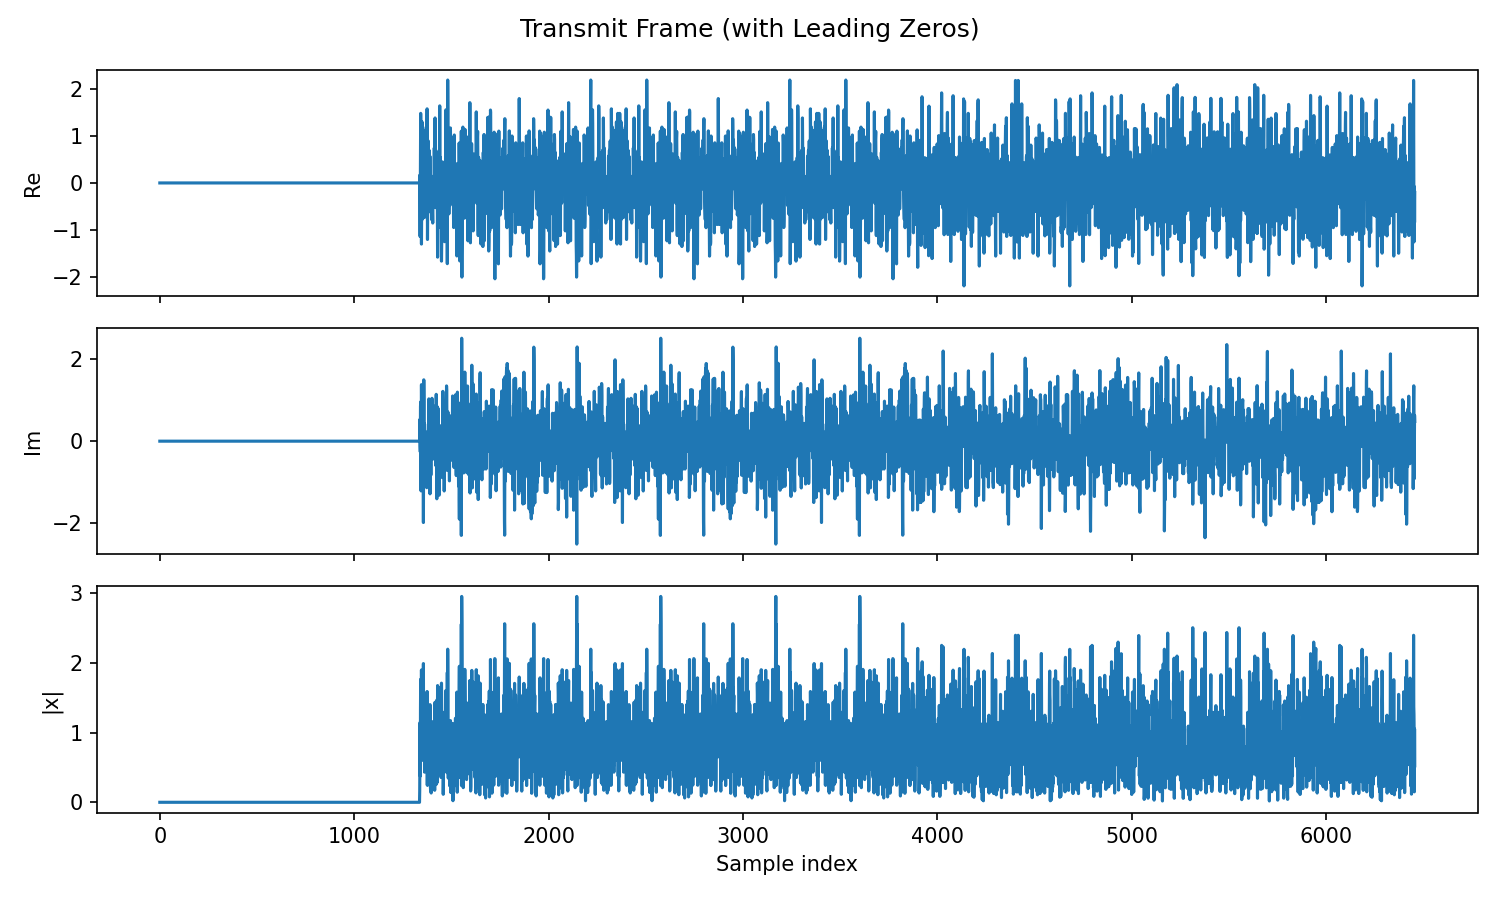
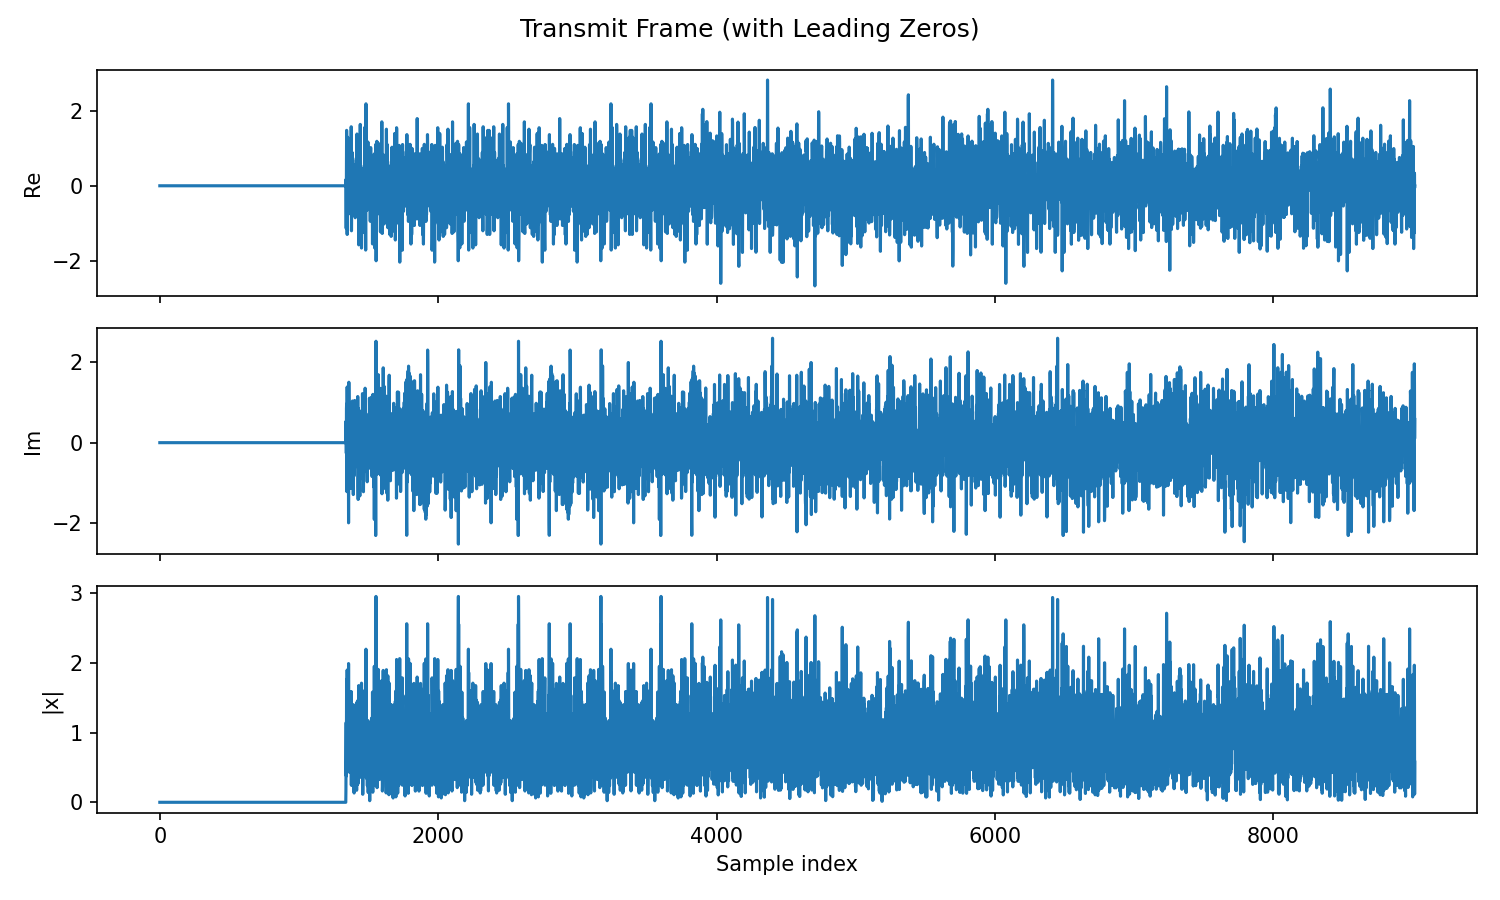
works well for both

diff --git a/core.py b/core.py
@@ -137,3 +137,144 @@ def apply_cfo(samples: np.ndarray, cfo_hz: float, fs_hz: float) -> np.ndarray:
     n = np.arange(L, dtype=float)
     tone = np.exp(1j * 2 * np.pi * cfo_hz * n / fs_hz)
     return x * tone[np.newaxis, :]
+
+
+# -----------------------------
+# Extra OFDM helpers for pilots
+# -----------------------------
+
+def _qpsk_values(rng: np.random.Generator, size: int) -> np.ndarray:
+    m = rng.integers(0, 4, size=size)
+    re = (m & 1) * 2 - 1  # 0->-1, 1->+1 for LSB
+    im = ((m >> 1) & 1) * 2 - 1
+    vals = (re + 1j * im) / np.sqrt(2.0)
+    return vals.astype(np.complex128)
+
+
+def build_random_qpsk_symbol(
+    rng: np.random.Generator, include_cp: bool = True
+) -> tuple[np.ndarray, np.ndarray]:
+    """Return (time_domain_symbol, used_subcarrier_values) for a full-band QPSK OFDM symbol.
+
+    - Active subcarriers are the centered set of width NUM_ACTIVE_SUBCARRIERS (DC skipped).
+    - QPSK constellation with unit average power on used tones.
+    - Time-domain symbol is unit-power normalized.
+    """
+    indices = centered_subcarrier_indices(NUM_ACTIVE_SUBCARRIERS)
+    qpsk_vals = _qpsk_values(rng, indices.shape[0])
+    spectrum = allocate_subcarriers(N_FFT, indices, qpsk_vals)
+    symbol = spectrum_to_time_domain(spectrum)
+    if include_cp:
+        symbol = add_cyclic_prefix(symbol, CYCLIC_PREFIX)
+    return symbol, qpsk_vals
+
+
+def ofdm_fft_used(symbol_time_no_cp: np.ndarray) -> np.ndarray:
+    """FFT an OFDM symbol (no CP) and return only used, centered subcarriers."""
+    spectrum_full = np.fft.fftshift(np.fft.fft(symbol_time_no_cp, n=N_FFT))
+    dc = N_FFT // 2
+    idx = centered_subcarrier_indices(NUM_ACTIVE_SUBCARRIERS)
+    return spectrum_full[(dc + idx) % N_FFT]
+
+
+def estimate_cfo_from_cp(
+    rx: np.ndarray, start: int, n_fft: int, cp_len: int, fs_hz: float
+) -> float:
+    """Estimate CFO (Hz) from CP correlation on a symbol whose CP starts at `start`.
+
+    Uses P = sum r[start+n] r*[start+n+N] over CP length.
+    Supports 1D (single branch) or 2D (branches x time) arrays by summing across branches.
+    """
+    x = np.asarray(rx)
+    if x.ndim == 1:
+        x = x[np.newaxis, :]
+    a = x[:, start : start + cp_len]
+    b = x[:, start + n_fft : start + n_fft + cp_len]
+    P = np.sum(a * np.conj(b))
+    angle = np.angle(P)
+    # angle(P) ≈ -2π * f_cfo * N / Fs  => f_cfo ≈ -angle * Fs / (2π N)
+    cfo_hz = -angle * fs_hz / (2 * np.pi * n_fft)
+    return float(cfo_hz)
+
+
+def find_cp_start_via_corr(
+    rx: np.ndarray,
+    est_start: int,
+    n_fft: int,
+    cp_len: int,
+    search_half: int = 1024,
+) -> int:
+    """Refine CP start using the magnitude of CP correlation |P(d)|.
+
+    Searches over d in [est_start - search_half, est_start + search_half] and
+    returns the d that maximizes |sum r[d+n] r*[d+n+n_fft]|.
+    """
+    x = np.asarray(rx)
+    if x.ndim == 1:
+        x = x[np.newaxis, :]
+    L = x.shape[1]
+    lo = max(0, est_start - search_half)
+    hi = min(L - (n_fft + cp_len), est_start + search_half)
+    if hi <= lo:
+        return est_start
+    best_d = lo
+    best_val = -1.0
+    for d in range(lo, hi):
+        a = x[:, d : d + cp_len]
+        b = x[:, d + n_fft : d + n_fft + cp_len]
+        P = np.sum(a * np.conj(b))
+        val = float(np.abs(P))
+        if val > best_val:
+            best_val = val
+            best_d = d
+    return best_d
+
+
+def ls_channel_estimate(y_used: np.ndarray, x_used: np.ndarray, eps: float = 1e-9) -> np.ndarray:
+    """Least-squares per-subcarrier channel estimate H = Y/X with small regularization."""
+    return y_used / (x_used + eps)
+
+
+def equalize(y_used: np.ndarray, h_est: np.ndarray, eps: float = 1e-9) -> np.ndarray:
+    return y_used / (h_est + eps)
+
+
+def remove_common_phase(x: np.ndarray, ref: np.ndarray | None = None) -> tuple[np.ndarray, float]:
+    """De-rotate by common phase error. If `ref` given, align x to ref; else use mean angle of x."""
+    if ref is None:
+        cpe = np.angle(np.mean(x))
+    else:
+        cpe = np.angle(np.vdot(ref, x) / (np.vdot(ref, ref) + 1e-12))
+    return x * np.exp(-1j * cpe), float(cpe)
+
+
+def align_complex_gain(x: np.ndarray, ref: np.ndarray, eps: float = 1e-12) -> tuple[np.ndarray, complex]:
+    """Scale x by complex gain g to best fit ref in LS sense: minimize ||g x - ref||^2."""
+    num = np.vdot(x, ref)
+    den = np.vdot(x, x) + eps
+    g = num / den
+    return x * g, g
+
+
+def evm_rms_db(x: np.ndarray, ref: np.ndarray) -> tuple[float, float]:
+    """Return (evm_rms, evm_db) where EVM is normalized to reference RMS magnitude."""
+    err = x - ref
+    evm_rms = np.sqrt(np.mean(np.abs(err) ** 2) / np.mean(np.abs(ref) ** 2))
+    evm_db = 20 * np.log10(evm_rms + 1e-12)
+    return float(evm_rms), float(evm_db)
+
+
+def plot_constellation(x: np.ndarray, ref: np.ndarray | None, path: Path, title: str) -> None:
+    fig, ax = plt.subplots(figsize=(5, 5))
+    ax.scatter(x.real, x.imag, s=6, alpha=0.6, label="Equalized")
+    if ref is not None:
+        ax.scatter(ref.real, ref.imag, s=36, alpha=0.8, marker="x", label="Ideal")
+    ax.set_xlabel("In-phase")
+    ax.set_ylabel("Quadrature")
+    ax.set_title(title)
+    ax.grid(True, alpha=0.3)
+    ax.set_aspect("equal", adjustable="box")
+    ax.legend(loc="upper right")
+    fig.tight_layout()
+    fig.savefig(path, dpi=150)
+    plt.close(fig)

diff --git a/sc.py b/sc.py
@@ -13,8 +13,15 @@ from core import (
     spectrum_to_time_domain,
     add_cyclic_prefix,
     plot_time_series,
-    build_random_bpsk_symbol,
     compute_channel_peak_offset,
+    build_random_qpsk_symbol,
+    estimate_cfo_from_cp,
+    ofdm_fft_used,
+    ls_channel_estimate,
+    equalize,
+    remove_common_phase,
+    evm_rms_db,
+    plot_constellation,
     SAMPLE_RATE_HZ,
     apply_cfo,
 )
@@ -91,7 +98,7 @@ def find_plateau_end_from_metric(M: np.ndarray, smooth_win: int, n_fft: int) -> 
 
 
 # Detector and channel parameters (script-local)
-SNR_DB = 15.0
+SNR_DB = 35.0
 CFO_HZ = 1000.0
 SC_DELTA = 12  # step back from plateau end to sit inside CP (8–16 suggested)
 SMOOTH_WIN = 32  # samples for smoothing M(d) before slope detection
@@ -103,9 +110,10 @@ TX_PLOT_PATH = PLOTS_DIR / "tx_frame_time.png"
 RX_PLOT_PATH = PLOTS_DIR / "rx_frame_time.png"
 RESULTS_PLOT_PATH = PLOTS_DIR / "start_detection.png"
 CIR_PLOT_PATH = PLOTS_DIR / "channel_cir.png"
+CONST_PLOT_PATH = PLOTS_DIR / "constellation.png"
 
 # Channel profile (set to 'cir1' or 'cir2' to enable measured CIR)
-CHANNEL_PROFILE = "cir1"
+CHANNEL_PROFILE = None
 CHANNEL_RX_INDICES: tuple[int, ...] | None = (0, 1)
 
 
@@ -113,10 +121,11 @@ def run_simulation():
     rng = np.random.default_rng(0)
     PLOTS_DIR.mkdir(parents=True, exist_ok=True)
 
-    # Build S&C preamble + a random data symbol
+    # Build S&C preamble + block pilot (QPSK) + random QPSK data
     sc_preamble = build_sc_preamble(rng, include_cp=True)
-    data_symbol = build_random_bpsk_symbol(rng, include_cp=True)
-    frame = np.concatenate((sc_preamble, data_symbol))
+    pilot_symbol, pilot_used = build_random_qpsk_symbol(rng, include_cp=True)
+    data_symbol, data_used = build_random_qpsk_symbol(rng, include_cp=True)
+    frame = np.concatenate((sc_preamble, pilot_symbol, data_symbol))
     tx_samples = np.concatenate((np.zeros(TX_PRE_PAD_SAMPLES, dtype=complex), frame))
 
     # Optional channel
@@ -209,6 +218,34 @@ def run_simulation():
     plot_time_series(tx_samples, "Transmit Frame (with Leading Zeros)", TX_PLOT_PATH)
     plot_time_series(rx_samples, "Received Frame After Channel", RX_PLOT_PATH)
 
+    # --- CFO estimation from pilot (CP correlation) ---
+    # plateau_end approximates the end of CP and start of N for the preamble
+    preamble_n_start_est = plateau_end
+    pilot_cp_nom = preamble_n_start_est + N_FFT
+    from core import find_cp_start_via_corr
+    pilot_cp_start = find_cp_start_via_corr(
+        rx_samples, pilot_cp_nom, N_FFT, CYCLIC_PREFIX, search_half=2 * CYCLIC_PREFIX
+    )
+    data_cp_start = pilot_cp_start + pilot_symbol.size
+    cfo_est_hz = estimate_cfo_from_cp(rx_samples, pilot_cp_start, N_FFT, CYCLIC_PREFIX, SAMPLE_RATE_HZ)
+    # Compensate CFO across entire stream
+    rx_cfo_corr = apply_cfo(rx_samples, -cfo_est_hz, SAMPLE_RATE_HZ)
+
+    # --- Channel LS estimate from pilot ---
+    rx_eff = rx_cfo_corr if rx_cfo_corr.ndim == 1 else np.mean(rx_cfo_corr, axis=0)
+    pilot_td = rx_eff[pilot_cp_start + CYCLIC_PREFIX : pilot_cp_start + CYCLIC_PREFIX + N_FFT]
+    y_pilot_used = ofdm_fft_used(pilot_td)
+    h_est = ls_channel_estimate(y_pilot_used, pilot_used)
+
+    # --- Equalize data symbol and compute EVM ---
+    data_td = rx_eff[data_cp_start + CYCLIC_PREFIX : data_cp_start + CYCLIC_PREFIX + N_FFT]
+    y_data_used = ofdm_fft_used(data_td)
+    xhat = equalize(y_data_used, h_est)
+    from core import align_complex_gain
+    xhat_aligned, gain = align_complex_gain(xhat, data_used)
+    evm_rms, evm_db = evm_rms_db(xhat_aligned, data_used)
+    plot_constellation(xhat_aligned, data_used, CONST_PLOT_PATH, "Equalized Data Constellation (S&C)")
+
     # Prints
     print(f"Transmit sequence length: {tx_samples.size} samples")
     print(f"Receive branches: {1 if rx_samples.ndim == 1 else rx_samples.shape[0]}")
@@ -228,6 +265,9 @@ def run_simulation():
     if channel_impulse_response is not None:
         print(f"Saved channel CIR plot to {CIR_PLOT_PATH.resolve()}")
     print(f"Applied CFO: {CFO_HZ} Hz at Fs={SAMPLE_RATE_HZ} Hz")
+    print(f"Estimated CFO from CP: {cfo_est_hz:.2f} Hz")
+    print(f"Post-EQ complex gain (mag, angle): {np.abs(gain):.3f}, {np.angle(gain):.3f} rad")
+    print(f"EVM RMS: {100*evm_rms:.2f}%  ({evm_db:.2f} dB)")
 
 
 def main():

diff --git a/zc.py b/zc.py
@@ -12,8 +12,15 @@ from core import (
     spectrum_to_time_domain,
     add_cyclic_prefix,
     plot_time_series,
-    build_random_bpsk_symbol,
+    build_random_qpsk_symbol,
     compute_channel_peak_offset,
+    estimate_cfo_from_cp,
+    ofdm_fft_used,
+    ls_channel_estimate,
+    equalize,
+    remove_common_phase,
+    evm_rms_db,
+    plot_constellation,
     SAMPLE_RATE_HZ,
     apply_cfo,
 )
@@ -39,7 +46,7 @@ def build_pss_symbol(include_cp: bool = True) -> np.ndarray:
 
 
 # Script-local parameters
-SNR_DB = 10.0
+SNR_DB = 35.0
 CFO_HZ = 1000.0
 
 PLOTS_DIR = Path("plots") / "zc"
@@ -48,8 +55,9 @@ TX_PLOT_PATH = PLOTS_DIR / "tx_frame_time.png"
 RX_PLOT_PATH = PLOTS_DIR / "rx_frame_time.png"
 RESULTS_PLOT_PATH = PLOTS_DIR / "start_detection.png"
 CIR_PLOT_PATH = PLOTS_DIR / "channel_cir.png"
+CONST_PLOT_PATH = PLOTS_DIR / "constellation.png"
 
-CHANNEL_PROFILE = "cir1"  # Set to None to bypass measured CIR
+CHANNEL_PROFILE = None # Set to None to bypass measured CIR
 CHANNEL_RX_INDICES: tuple[int, ...] | None = (0, 1)
 
 
@@ -58,8 +66,9 @@ def run_simulation():
     PLOTS_DIR.mkdir(parents=True, exist_ok=True)
 
     pss_waveform = build_pss_symbol(include_cp=True)
-    data_symbol = build_random_bpsk_symbol(rng, include_cp=True)
-    frame = np.concatenate((pss_waveform, data_symbol))
+    pilot_symbol, pilot_used = build_random_qpsk_symbol(rng, include_cp=True)
+    data_symbol, data_used = build_random_qpsk_symbol(rng, include_cp=True)
+    frame = np.concatenate((pss_waveform, pilot_symbol, data_symbol))
     tx_samples = np.concatenate((np.zeros(TX_PRE_PAD_SAMPLES, dtype=complex), frame))
 
     channel_impulse_response = None
@@ -163,6 +172,35 @@ def run_simulation():
     plot_time_series(tx_samples, "Transmit Frame (with Leading Zeros)", TX_PLOT_PATH)
     plot_time_series(rx_samples, "Received Frame After Channel", RX_PLOT_PATH)
 
+    # --- CFO estimation from pilot (CP correlation) ---
+    # detected_start aligns to start of the N-length part of the preamble
+    pilot_cp_nom = detected_start + N_FFT
+    from core import find_cp_start_via_corr
+    pilot_cp_start = find_cp_start_via_corr(
+        rx_samples, pilot_cp_nom, N_FFT, CYCLIC_PREFIX, search_half=2 * CYCLIC_PREFIX
+    )
+    data_cp_start = pilot_cp_start + pilot_symbol.size
+    cfo_est_hz = estimate_cfo_from_cp(rx_samples, pilot_cp_start, N_FFT, CYCLIC_PREFIX, SAMPLE_RATE_HZ)
+    # Compensate CFO across entire stream
+    rx_cfo_corr = apply_cfo(rx_samples, -cfo_est_hz, SAMPLE_RATE_HZ)
+
+    # --- Channel LS estimate from pilot ---
+    # Combine branches by simple average after CFO correction
+    rx_eff = rx_cfo_corr if rx_cfo_corr.ndim == 1 else np.mean(rx_cfo_corr, axis=0)
+    pilot_td = rx_eff[pilot_cp_start + CYCLIC_PREFIX : pilot_cp_start + CYCLIC_PREFIX + N_FFT]
+    y_pilot_used = ofdm_fft_used(pilot_td)
+    h_est = ls_channel_estimate(y_pilot_used, pilot_used)
+
+    # --- Equalize data symbol and compute EVM ---
+    data_td = rx_eff[data_cp_start + CYCLIC_PREFIX : data_cp_start + CYCLIC_PREFIX + N_FFT]
+    y_data_used = ofdm_fft_used(data_td)
+    xhat = equalize(y_data_used, h_est)
+    # Align residual common phase and amplitude via complex LS gain
+    from core import align_complex_gain
+    xhat_aligned, gain = align_complex_gain(xhat, data_used)
+    evm_rms, evm_db = evm_rms_db(xhat_aligned, data_used)
+    plot_constellation(xhat_aligned, data_used, CONST_PLOT_PATH, "Equalized Data Constellation (ZC)")
+
     print(f"Frame length (without pad): {frame.size} samples")
     print(f"Transmit sequence length: {tx_samples.size} samples")
     print(f"Receive branches: {num_branches}")
@@ -186,6 +224,9 @@ def run_simulation():
     if channel_impulse_response is not None:
         print(f"Saved channel CIR plot to {CIR_PLOT_PATH.resolve()}")
     print(f"Applied CFO: {CFO_HZ} Hz at Fs={SAMPLE_RATE_HZ} Hz")
+    print(f"Estimated CFO from CP: {cfo_est_hz:.2f} Hz")
+    print(f"Post-EQ complex gain (mag, angle): {np.abs(gain):.3f}, {np.angle(gain):.3f} rad")
+    print(f"EVM RMS: {100*evm_rms:.2f}%  ({evm_db:.2f} dB)")
 
 
 def main():
